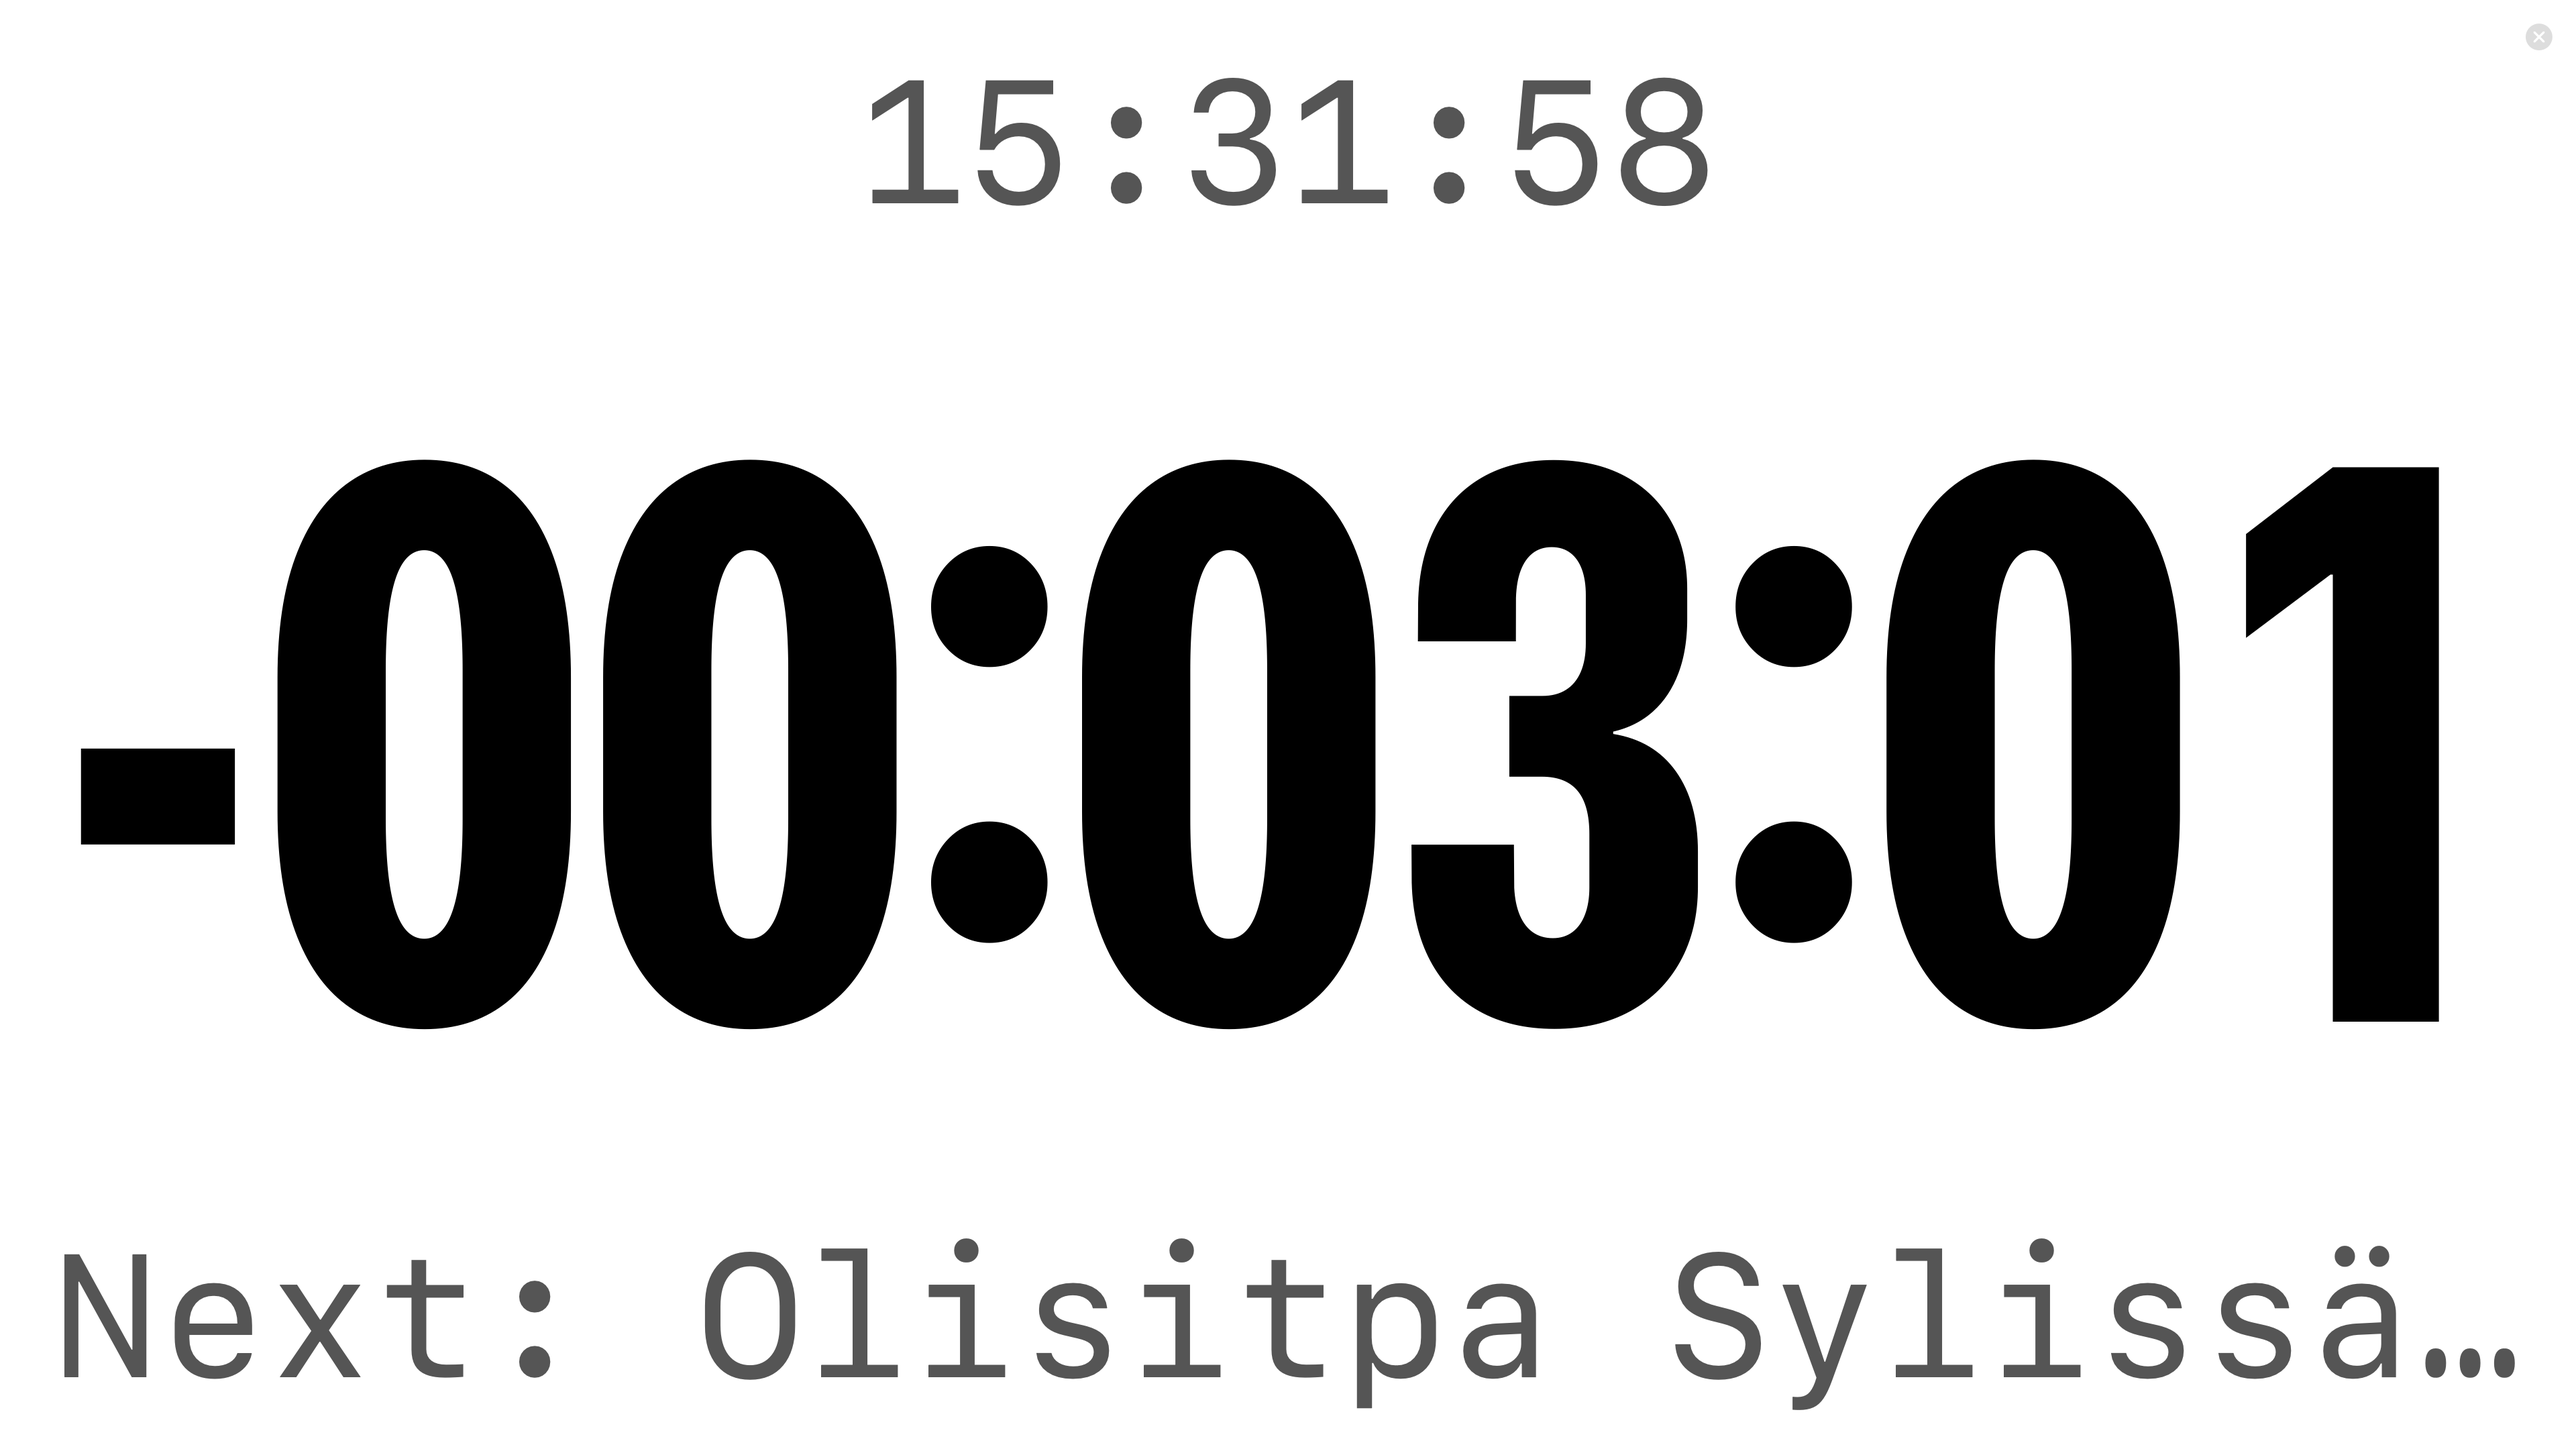
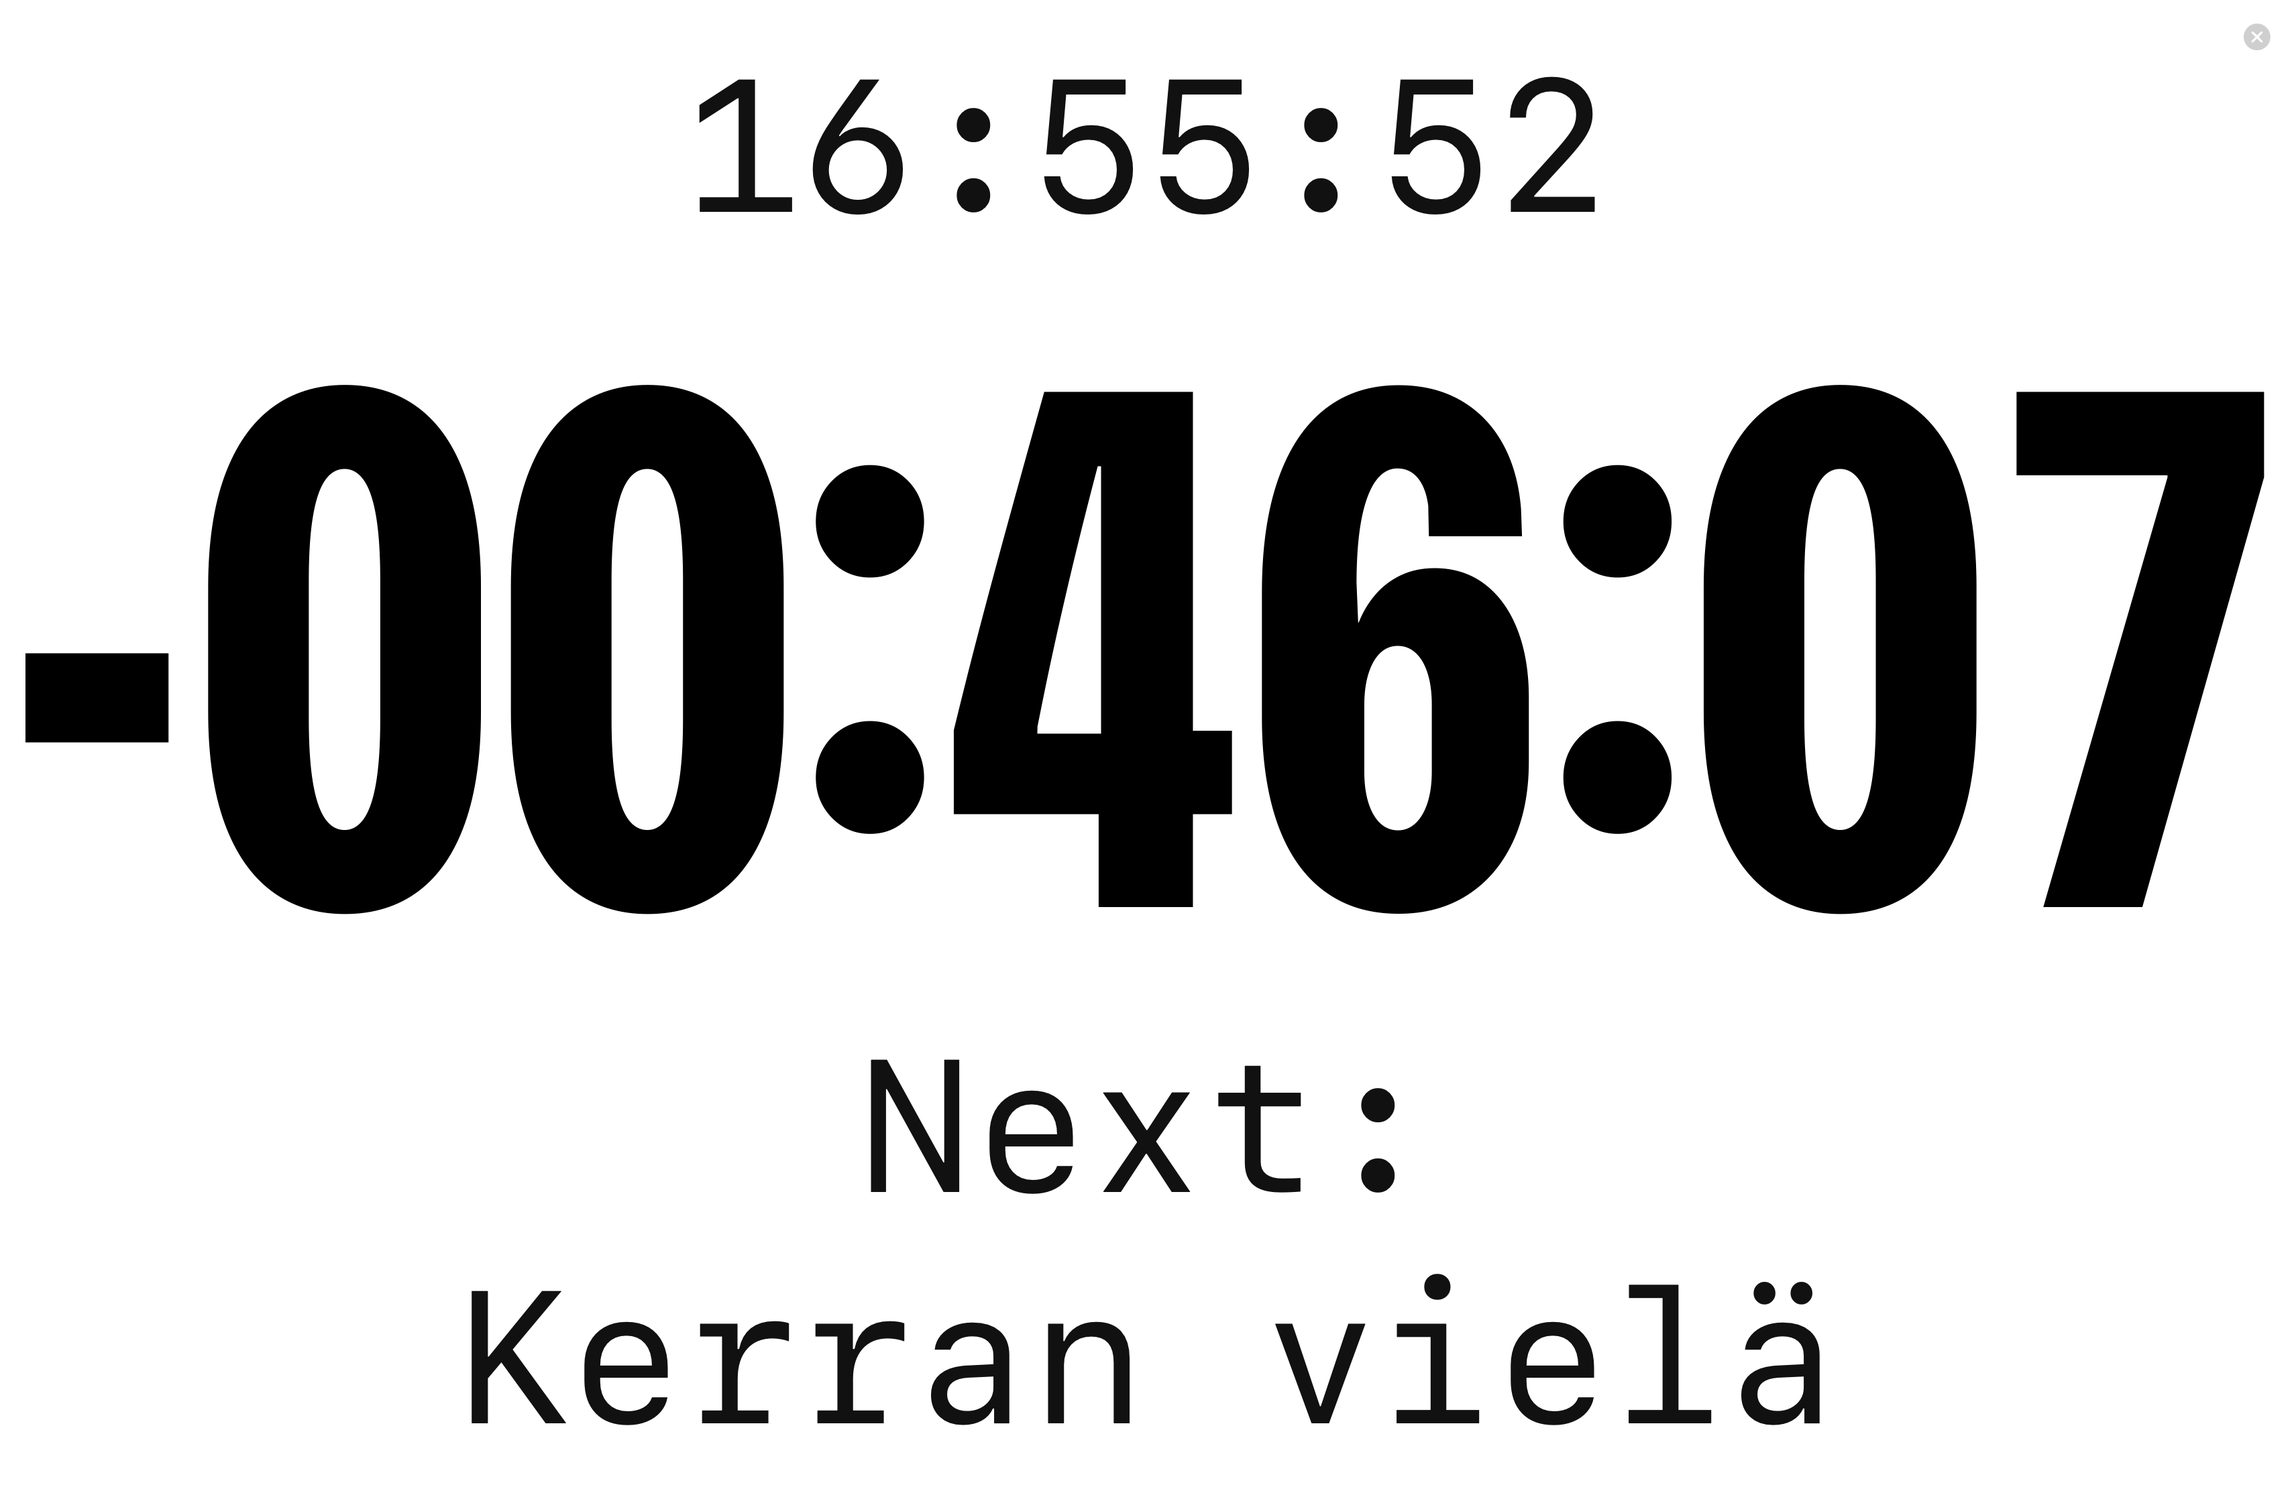
Update docs and screenshots for the new display layout and cue logic
Refreshes all four README screenshots — the clock views, Settings and the
theme editor all changed — and rewrites the font-sizing architecture note,
which described the old height-fraction approach that no longer applies.

Claude-Session: https://claude.ai/code/session_01Q7MbnAwNDDNtDy4pWbSyjC

diff --git a/CLAUDE.md b/CLAUDE.md
@@ -37,11 +37,14 @@ No external dependencies. macOS 14+, Swift 5.9+.
 - **Launch behavior.** Only the Settings window opens on launch. The clock itself is *not* a SwiftUI `WindowGroup` window — `DisplayWindowController` creates a borderless `NSWindow` pinned to a specific `NSScreen`, above the menu bar level, shown/closed via the "Open/Close Clock Display" button in Settings.
 - **Mini window vs. kiosk display.** `MiniWindowController` follows the same "plain `NSWindow`/`NSPanel`, not a SwiftUI `WindowGroup`" approach as `DisplayWindowController`, but differs in level and activation: `.floating` (not `.statusBar`, which would cover the menu bar) and `styleMask: [.borderless, .resizable, .nonactivatingPanel]` so clicking it (e.g. its close button) never activates ShowClock or steals focus from whatever app the operator is actually working in — the entire point of a HUD meant to sit over other apps. `.canJoinAllSpaces` + `.fullScreenAuxiliary` keep it visible across Space switches and over other apps' full-screen mode.
 - **Display switching.** Picking a different display in Settings while the clock is already open calls `show(activate: false)`, not a plain `setFrame` move: with "Displays have separate Spaces" (macOS default), a window is tied to the Space of the display it was created on, so it has to be rebuilt fresh on the new screen to actually relocate — `activate: false` skips the app-activation/key-window steps so Settings doesn't lose focus in the process.
-- **Font sizing.** Numbers use `Font.system(...).monospacedDigit()` + `.fontWidth(.compressed)` + `minimumScaleFactor(0.01)`. Compressed width gives a larger rendered height than monospaced. The big countdown number is 70% of window height in CountdownView (82% in ClockView, which has less competing text); the two info lines are 12%/9% respectively — sized so nothing overflows the fixed-height layout.
+- **Font sizing is derived from width, not height.** `-00:00:00` is nine glyphs, so on any stage-shaped display the *width* caps how big the number can be long before the height does — the digits have a fixed ~4.45:1 aspect ratio, and filling a 1920px-wide screen pins their cap height at ~40% of a 1080px one no matter what font size is requested. The earlier approach (a height fraction plus `minimumScaleFactor(0.01)` to shrink it to fit) therefore had its requested size silently discarded: 0.70, 0.74, 0.78 and 0.82 all rendered identically. Worse, the `Text` still reserved a line box as tall as the size that was *asked for* (1.175 em) while drawing only 0.705 em of digits, leaving a band of dead space inside the view's own frame that no `VStack` spacing or padding on neighbours could reach, and that constraining the frame's height only made worse — a shorter frame just triggered `minimumScaleFactor` again, shrinking the digits and reopening the gap. `CountdownView` now computes the size from the available width by measuring the actual string (`advanceRatio(for:)` asks `NSFont` how wide it really is, cached by shape since monospaced digits all share one advance; `capHeightRatio` 0.7046 and `lineHeightRatio` 1.175 likewise come from `NSFont`, not from a screenshot, which only ever shows the size SwiftUI already shrank to). A single average-advance-per-glyph constant is *not* enough: it was measured on `-00:58:20`, whose leading hyphen is far narrower than a digit, so applying it to the plain clock's `16:29:48` under-estimated the width and produced a size that overflowed both screen edges, then uses `.fixedSize()` to stop any rescaling and negative vertical padding to trim the reserved line box. `ClockView` shares the same constants via `CountdownView` and is one glyph shorter, so its clock lands slightly larger. Sub-text is 13% of height. Both views are pinned to the top and bottom edges rather than centred: centring parks all the leftover space at the borders, where it reads as a stubborn margin that no font change can shift.
 - **Theme editor** opens as a separate native window (`WindowGroup(id: "theme-editor")`), not a sheet, so it has standard traffic-light buttons.
 - **Showtime logic.** Times are stored as HH:MM only; always applied to today's date. If show-end ≤ showtime, end is treated as next day (post-midnight shows).
 - **Optional end time / overtime revert.** `AppSettings.isShowingPlainClock(at:qlab:)` is the single source of truth for clock-vs-countdown, shared by ContentView (the real display), MiniClockView, and ScreenArrangementView's live preview, so they can never disagree. If `showEndEnabled` is off, it's always true — there's nothing to count down to. If it's on: plain clock (pre-show) → countdown (`-HH:MM:SS`) → overtime (`+HH:MM:SS`, flashing) → plain clock again, once QLab's `totalRemainingSeconds` reaches zero *and* stays there for `overtimeHoldSeconds` (Cmd+, → Overtime, default 60s) — an instant cut the moment QLab hits zero read as jarring, so `QLabManager.remainingReachedZeroAt` records when it first hit zero and the revert only fires once that grace period has elapsed. Without a QLab connection there's no way to know the show is over, so overtime just keeps running rather than guessing.
 - **`QLabManager.currentStartIndex` and the end of the show.** It picks up either the selected cue's position or any actively-playing cue's position, whichever is earlier — but once the very last cue finishes with nothing armed after it to stay selected, QLab reports *neither* (no selection, nothing playing). Naively defaulting that case to index 0 re-summed the entire, already-played show as "remaining," which both showed a wildly wrong number in Settings and meant `totalRemainingSeconds` could never reach zero — permanently blocking the overtime-revert grace period above from ever completing. The fix (`hasSeenCuePosition`) only defaults to 0 before a real position has ever been observed (i.e. genuinely pre-show); afterward, an empty selection means "played through to the end," and the start index points one past the end of `cueOrder` so the sum is correctly zero.
+- **`ScreenArrangementView` snapshots screens as values, not `[NSScreen]`.** Holding the `NSScreen` objects themselves looked correct and silently never updated: `NSScreen` is a *class*, and rearranging or hot-plugging displays mutates the existing instances rather than producing new ones — so re-reading `NSScreen.screens` handed back an array of the same object identities, which compares equal to what `@State` already held, and SwiftUI skipped the redraw even though the frames inside had moved. The diagram only ever refreshed on relaunch. It now copies out a small `ScreenInfo` value type (`id`/`frame`/`name`) so a moved display genuinely differs. Refresh is also wired to `.onAppear` (a display changed while Settings was closed is observed by nothing, and the `@State` survives the window closing) and `didBecomeActiveNotification` (plugging in while another app is focused), plus a deferred second read 0.4s later because `NSScreen.screens` can still report the pre-change layout at the instant the notification fires. Display names are drawn from `theme.accentColor` for *every* screen, not `.secondary` for unselected ones — `.secondary` resolves against the system appearance (dark) and vanished against the theme's own light `backgroundColor`, so the labels were rendering all along, just invisibly.
+- **"Next" is resolved from what's playing, not from the playhead.** `/selectedCues` is where QLab's playhead sits, and Go advances it past an entire run of follow/auto-continue cues in one step — so mid-chain it named a song several entries ahead of what was about to play. `recomputeNextCue` walks forward from the last *active* cue instead (falling back to the playhead only when nothing is running), names the containing top-level cue rather than the flattened leaf (`topLevelCueID` — and note `ancestorChain` ends at the cue *list*, so the top-level cue is its second-to-last element, not its last), and holds the previous answer for `playheadSettleDelay` (3s) after the playhead moves or cues stop, because QLab reports the moved playhead a poll before it reports the cue that started. Briefly-stale beats briefly-wrong on a display someone glances at. See docs/qlab-osc.md.
+- **The kiosk window insets its content for the camera housing.** `DisplayWindowController` passes `screen.safeAreaInsets.top` into `ContentView`, which pads the clock down by it. The window itself still covers the full `screen.frame` (the background runs edge to edge under the notch) — only the text is inset, because the top-pinned layout otherwise puts the current-time line directly under the housing on a notched MacBook, where it simply isn't visible.
 - **ClockView's "Show at" label** only appears when genuinely pre-show (`now < showtimeDate`) — not in the no-end-time-but-past-showtime case, and not after reverting from overtime, both of which also render ClockView.
 - **QLab disconnect detection.** UDP has no disconnect signal, so quitting QLab looked identical to a working connection until `QLabManager` started tracking `lastReplyAt` (updated on any parsed message) and checking it every poll tick — no reply for 5s while `isConnected` flips it to false ("Connection lost"), and the same tick's existing "no workspace → resend `/workspaces`" logic then keeps retrying, so a relaunched QLab is picked back up automatically. The 1-second poll timer itself now starts immediately in `start()` (not only after a successful connect) for the same reason: the very first `/workspaces` send used to be a single UDP packet with no retry if lost, which could leave the app stuck on "Connecting..." until a manual Connect click sent a fresh one.
 - **Settings' Connect button** hides itself once connected — but only while the live host/port/passcode fields still match what was actually used for that connection (`SettingsView` snapshots them via `.onChange(of: qlab.isConnected)` the moment it succeeds). It reappears if the connection drops or if those fields are edited afterward.

diff --git a/docs/themes.md b/docs/themes.md
@@ -5,15 +5,19 @@
 Each theme has: `id` (UUID), `name`, `isBuiltIn` flag, and three hex color strings: `backgroundHex`, `primaryHex`, `accentHex`.
 
 - **primary** — main time digits
-- **accent** — secondary text ("Next:", "Show at", dim colors when over time)
+- **accent** — secondary text ("Next:" and the cue name, "Show at", the mini window's "Set remaining" line, and the display names in the arrangement picker)
+
+The theme editor labels these **Background / Clock / Details** rather than by their
+property names. "Accent" gave no clue what it actually painted, which made a first
+theme guesswork — the labels now name what each colour does on the display.
 
 Colors are stored as `#RRGGBB` hex strings and converted to SwiftUI `Color` on demand.
 
 ## Built-in presets
 
-| Name  | Background | Primary | Accent  |
+| Name  | Background | Clock (primary) | Details (accent) |
 |-------|-----------|---------|---------|
-| Day   | #FFFFFF   | #000000 | #555555 |
+| Day   | #FFFFFF   | #000000 | #111111 |
 | Night | #000000   | #CC0000 | #880000 |
 
 Built-in themes cannot be deleted or renamed. They are always prepended to the list on load.
